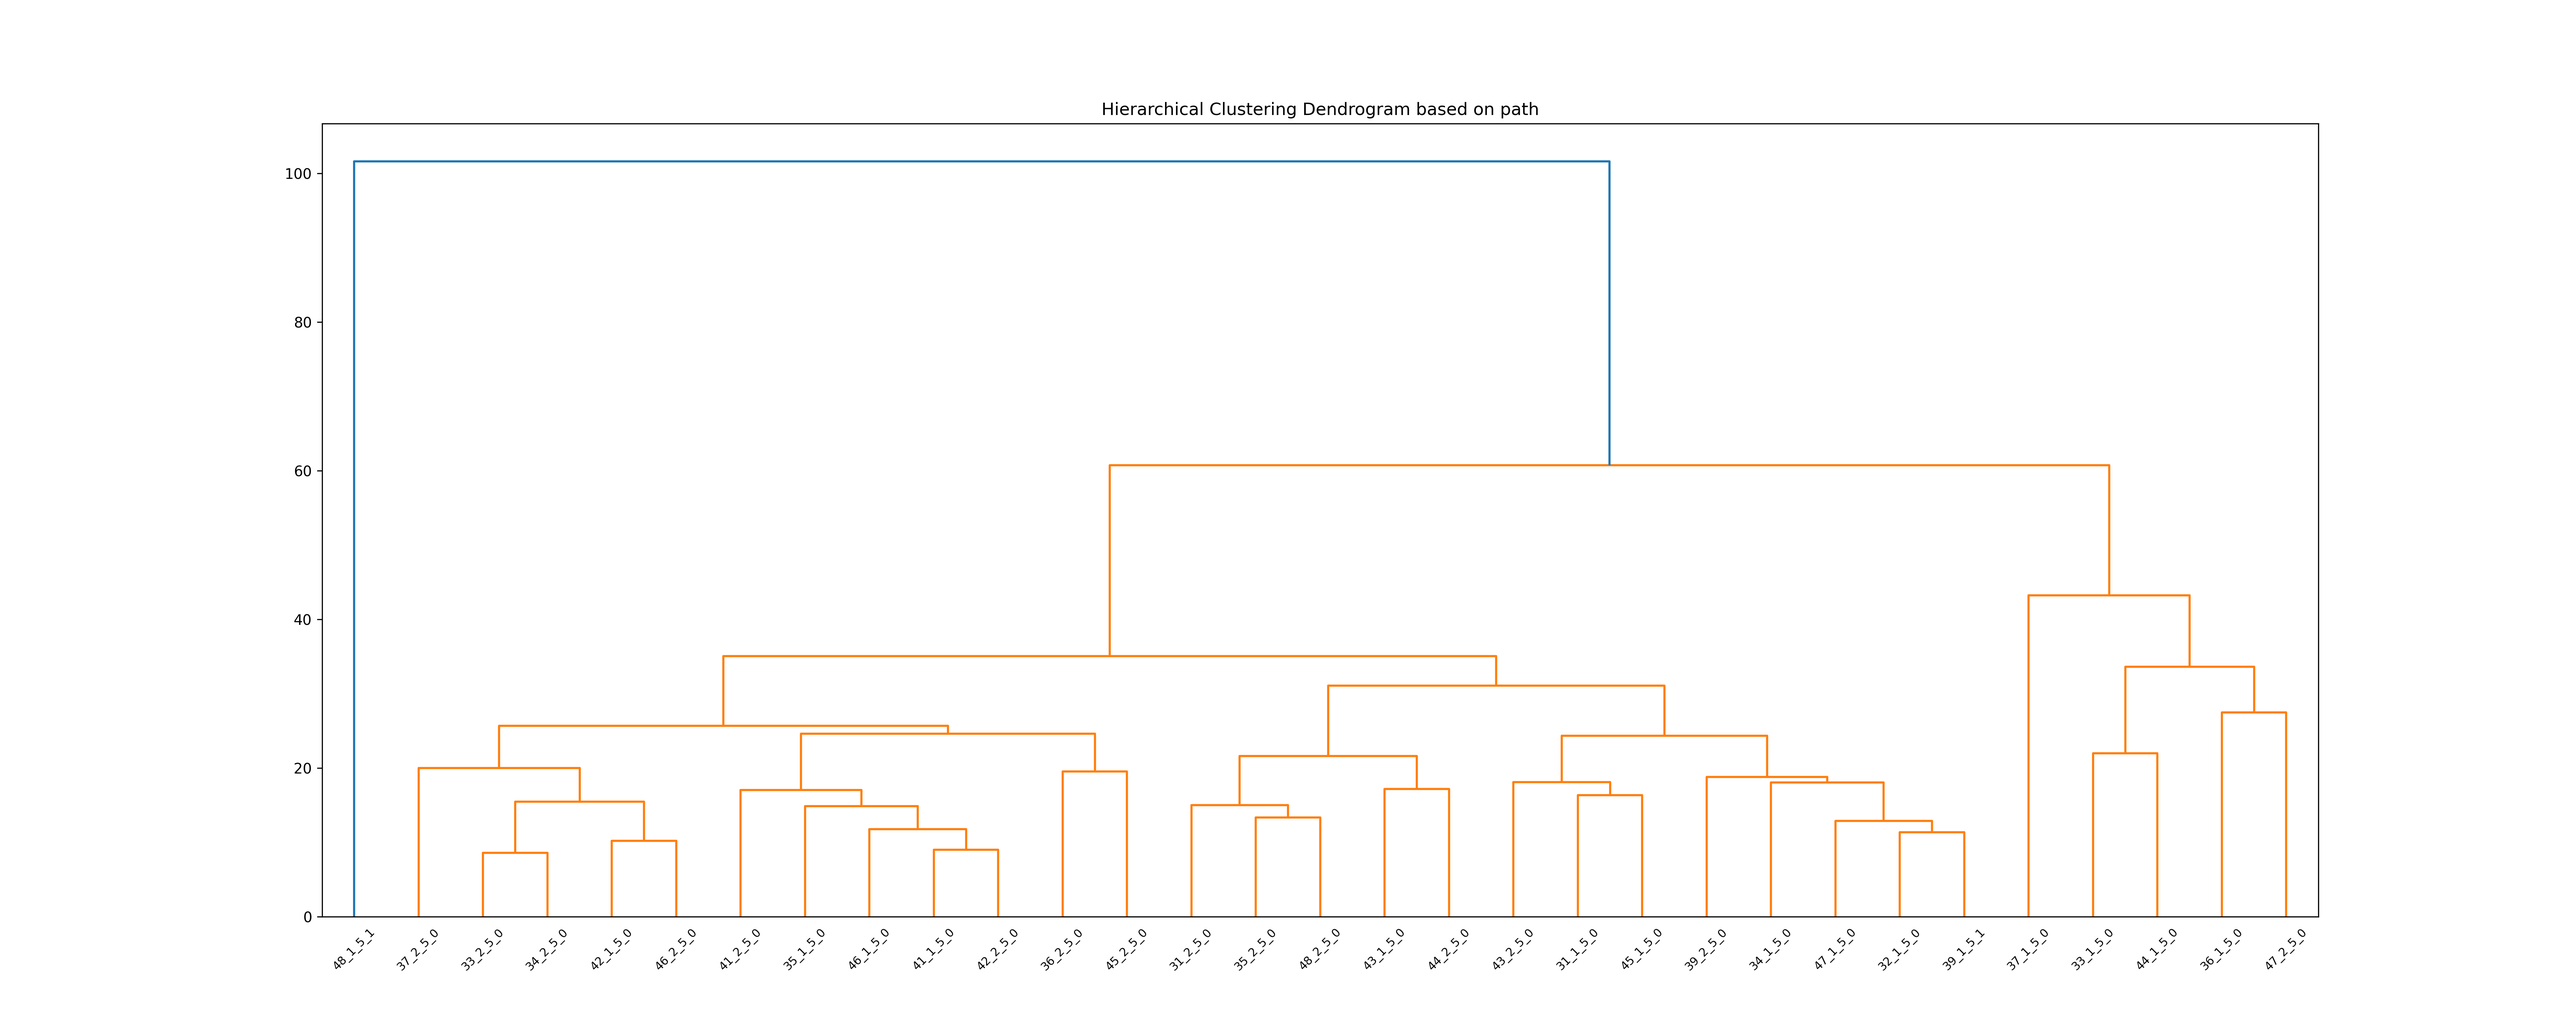
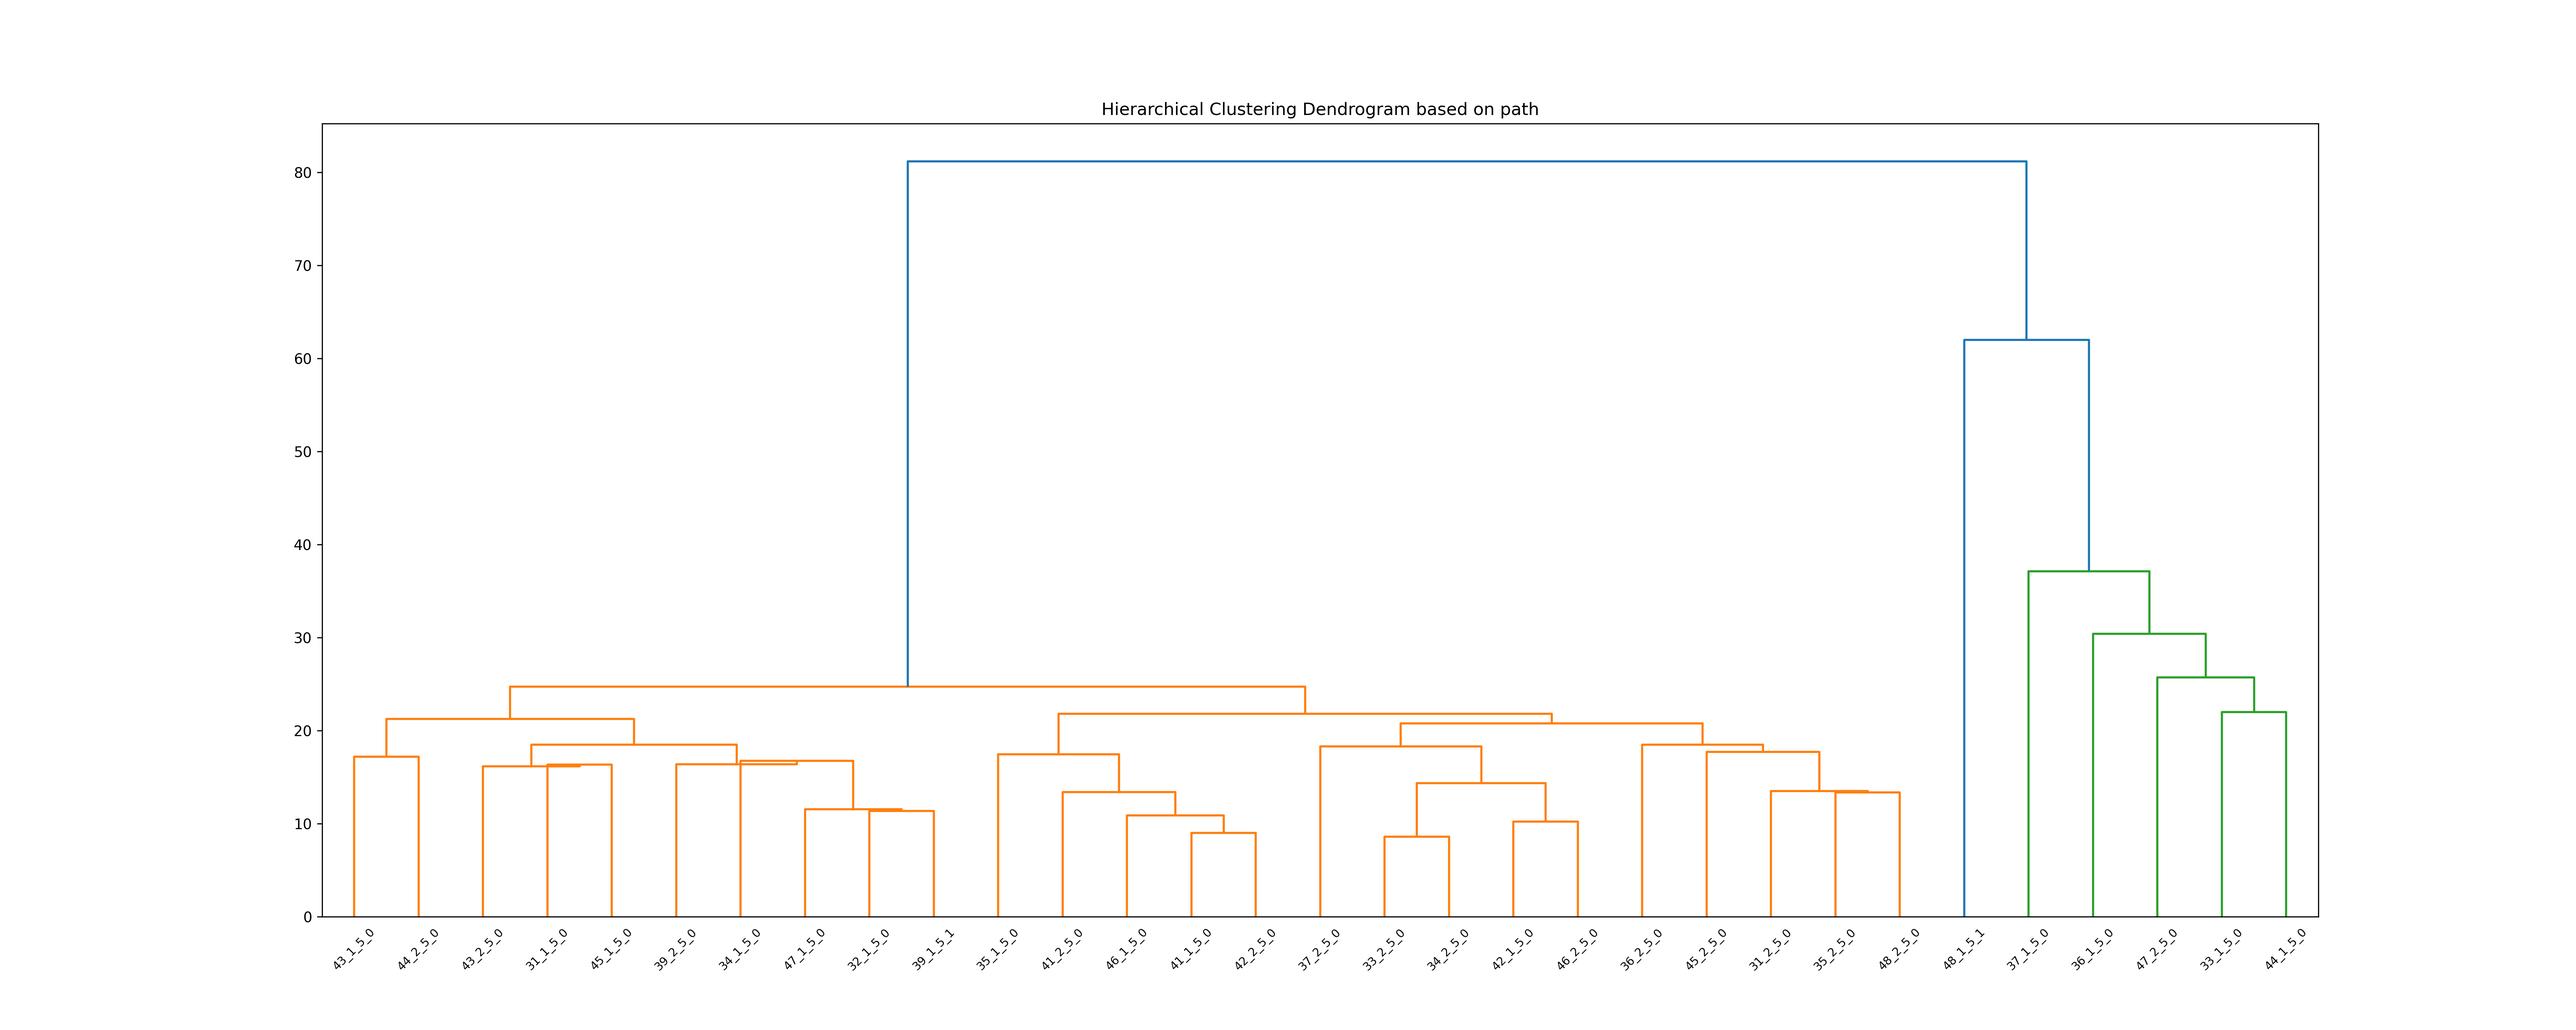
ordered list of interaction type + duration of them added to help with verifying clustering

diff --git a/SRC/p5dtw_path.py b/SRC/p5dtw_path.py
@@ -14,6 +14,7 @@ def main():
    
     # 1, 2, 3, 4,5, 6, 21, 22, 23, 24, 25, 26
     sequences=[]
+    interaction_lists=[]
     ids=[]
     for desired_puzzle in [5]:
 
@@ -32,13 +33,17 @@ def main():
                             df=movementTracker.df_from_json(data)
                             
                             solved_stats=movementTracker.interaction(df, participant_id, run,type="total",solved=True)
-                            # print(solved_stats)
-                            # print(type(solved_stats))
+
                             if solved_stats== "True":
+
                                 ids.append(str(participant_id) + "_" + str(run) + "_" +str(puzzle) + "_" +str(attempt))
 
                                 x,y,description=wholeSequence.interaction(df, participant_id, run)
                                 transformed_description=np.zeros((len(description),2))
+
+                                interaction_list=wholeSequence.interaction(df, participant_id, run, listed=True)
+                                interaction_lists.append(interaction_list)
+                                
                                 for i in range(len(description)):
 
                                     if description[i]=='box1' :
@@ -85,7 +90,7 @@ def main():
     #             # print(i,j,d)
     #             distance_matrix[i][j]=d
     #             distance_matrix[j][i]=d
-    return distance_matrix,ids
+    return distance_matrix,ids,interaction_lists
     
     
 

diff --git a/SRC/p5cluster.py b/SRC/p5cluster.py
@@ -5,7 +5,7 @@ from matplotlib import pyplot as plt
 from scipy.cluster.hierarchy import dendrogram, linkage
 
 # distance_matrix1,ids1 = p5dtw.main()
-distance_matrix,ids = p5dtw_path.main()
+distance_matrix,ids,interaction_lists = p5dtw_path.main()
 
 
 # distance_matrix = np.maximum(distance_matrix, distance_matrix.T)
@@ -14,16 +14,9 @@ distance_matrix,ids = p5dtw_path.main()
 # distance_matrix = np.triu(distance_matrix)
 # distance_matrix = distance_matrix[~np.all(distance_matrix == 0, axis=1)]
 
+Z = linkage(distance_matrix, method='median') 
+print(Z)
 
-# distance_matrix1 = np.maximum(distance_matrix1, distance_matrix1.T)
-# distance_matrix1 = distance_matrix1 / distance_matrix1.max()
-# distance_matrix1 = 1 - distance_matrix1
-# distance_matrix1 = np.triu(distance_matrix1)
-# distance_matrix1 = distance_matrix1[~np.all(distance_matrix1 == 0, axis=1)]
-
-
-# Z1 = linkage(distance_matrix1, method='average')  
-Z = linkage(distance_matrix, method='average')  
 
 plt.figure(figsize=(25, 10))
 dendrogram(Z,labels=ids)
@@ -31,10 +24,9 @@ plt.title('Hierarchical Clustering Dendrogram based on path')
 plt.savefig('/home/erfan/Documents/Puzzle/puzzlesdata/Plots_Text/Hierarchical Clustering Dendrogram based on path puzzle 5.png', dpi=300)
 plt.show()
 
-# plt.figure(figsize=(25, 10))
-# dendrogram(Z1,labels=ids1)
-# plt.title('Hierarchical Clustering Dendrogram based on displacement')
-# plt.show()
+#print the index of the clusters   
+
+
 
 
 

diff --git a/SRC/wholeSequence.py b/SRC/wholeSequence.py
@@ -10,7 +10,7 @@ def df_from_json(file):
         df = pd.DataFrame(file, index=[0])
     return df
 
-def interaction(df, participant_id, run, sparce=False):
+def interaction(df, participant_id, run, listed=False):
 
     
     try:
@@ -43,12 +43,33 @@ def interaction(df, participant_id, run, sparce=False):
             
             
 
-
+        time_stamp=df_events['timestamp'].values
         x=df_events['x'].values
         y=df_events['y'].values
         description=df_events['description'].values
 
+        interaction_list=[]
+        if listed==True:
+            #compute the duration of each interaction
+            state=description[0]
+            start=time_stamp[0]
+            for i in range(1,len(description)):
+                if description[i]!=state:
+                    end=time_stamp[i-1]
+                    duration=end-start
+                    duration=duration.astype('timedelta64[ns]').astype(int)/1000000000
+                    if duration !=0: interaction_list.append([state,duration])
+                    state=description[i]
+                    start=time_stamp[i]
+            return interaction_list
+
+
+
+        
+
         return x,y,description
+    
+
 
             
 
